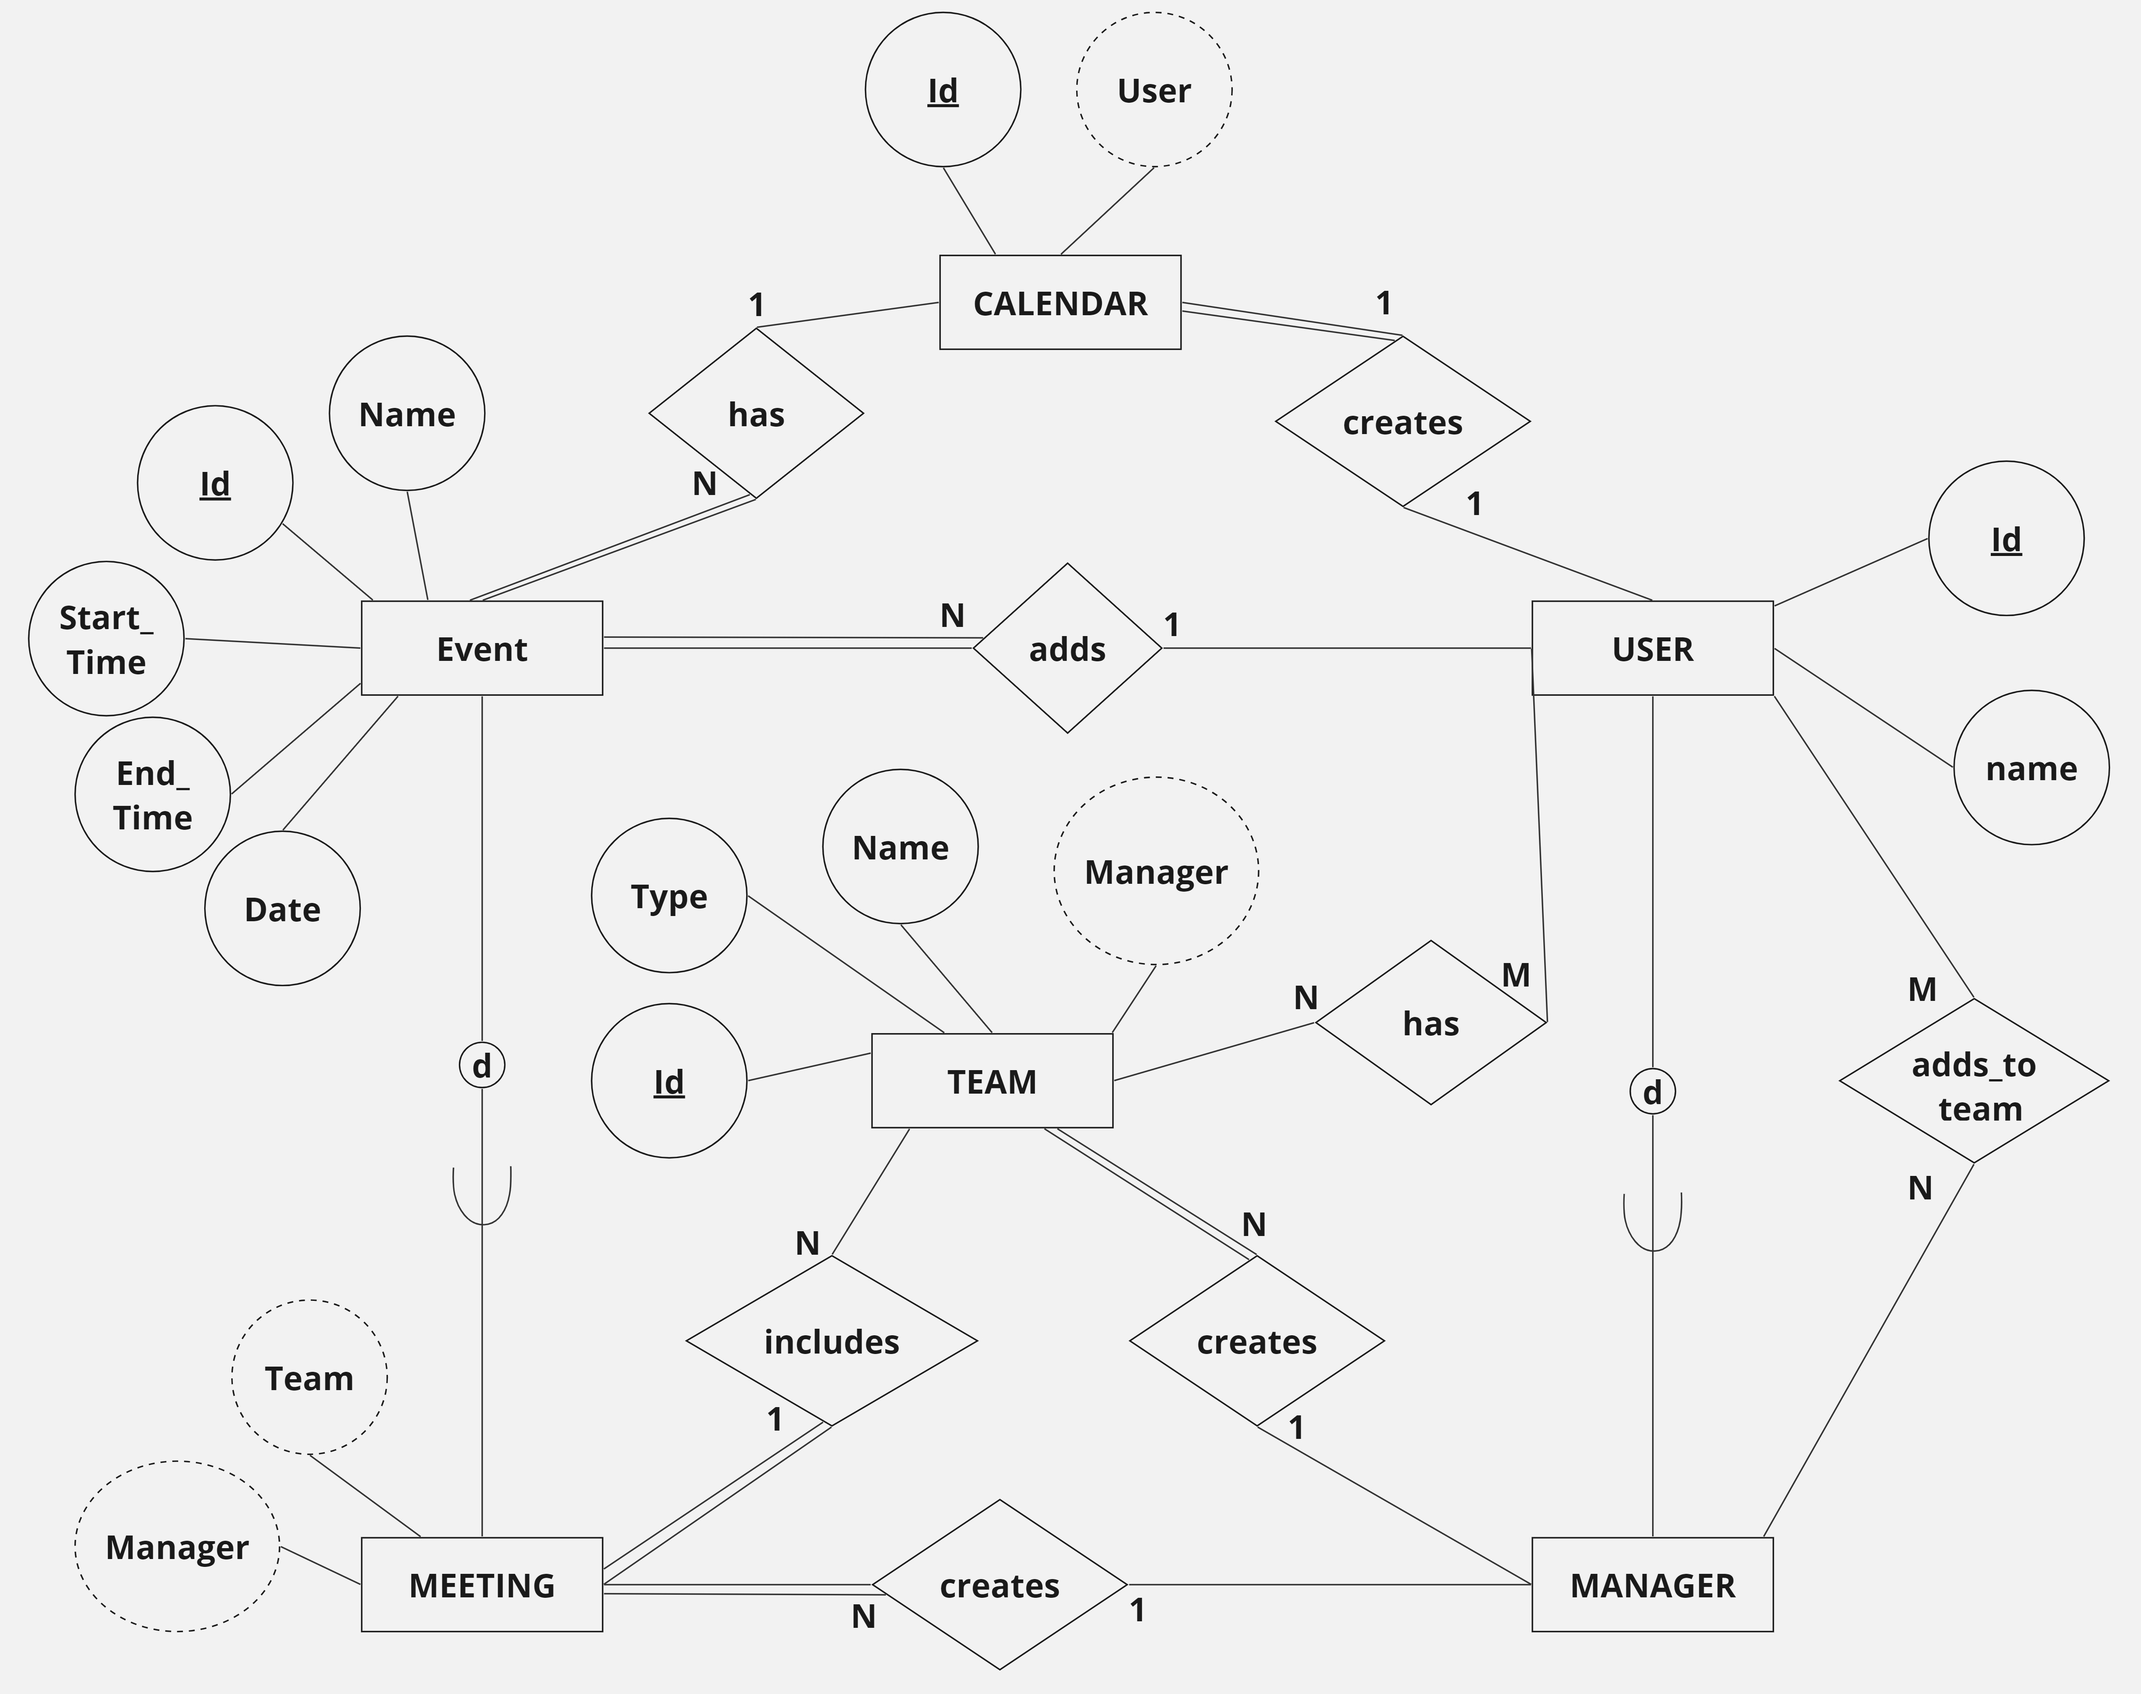
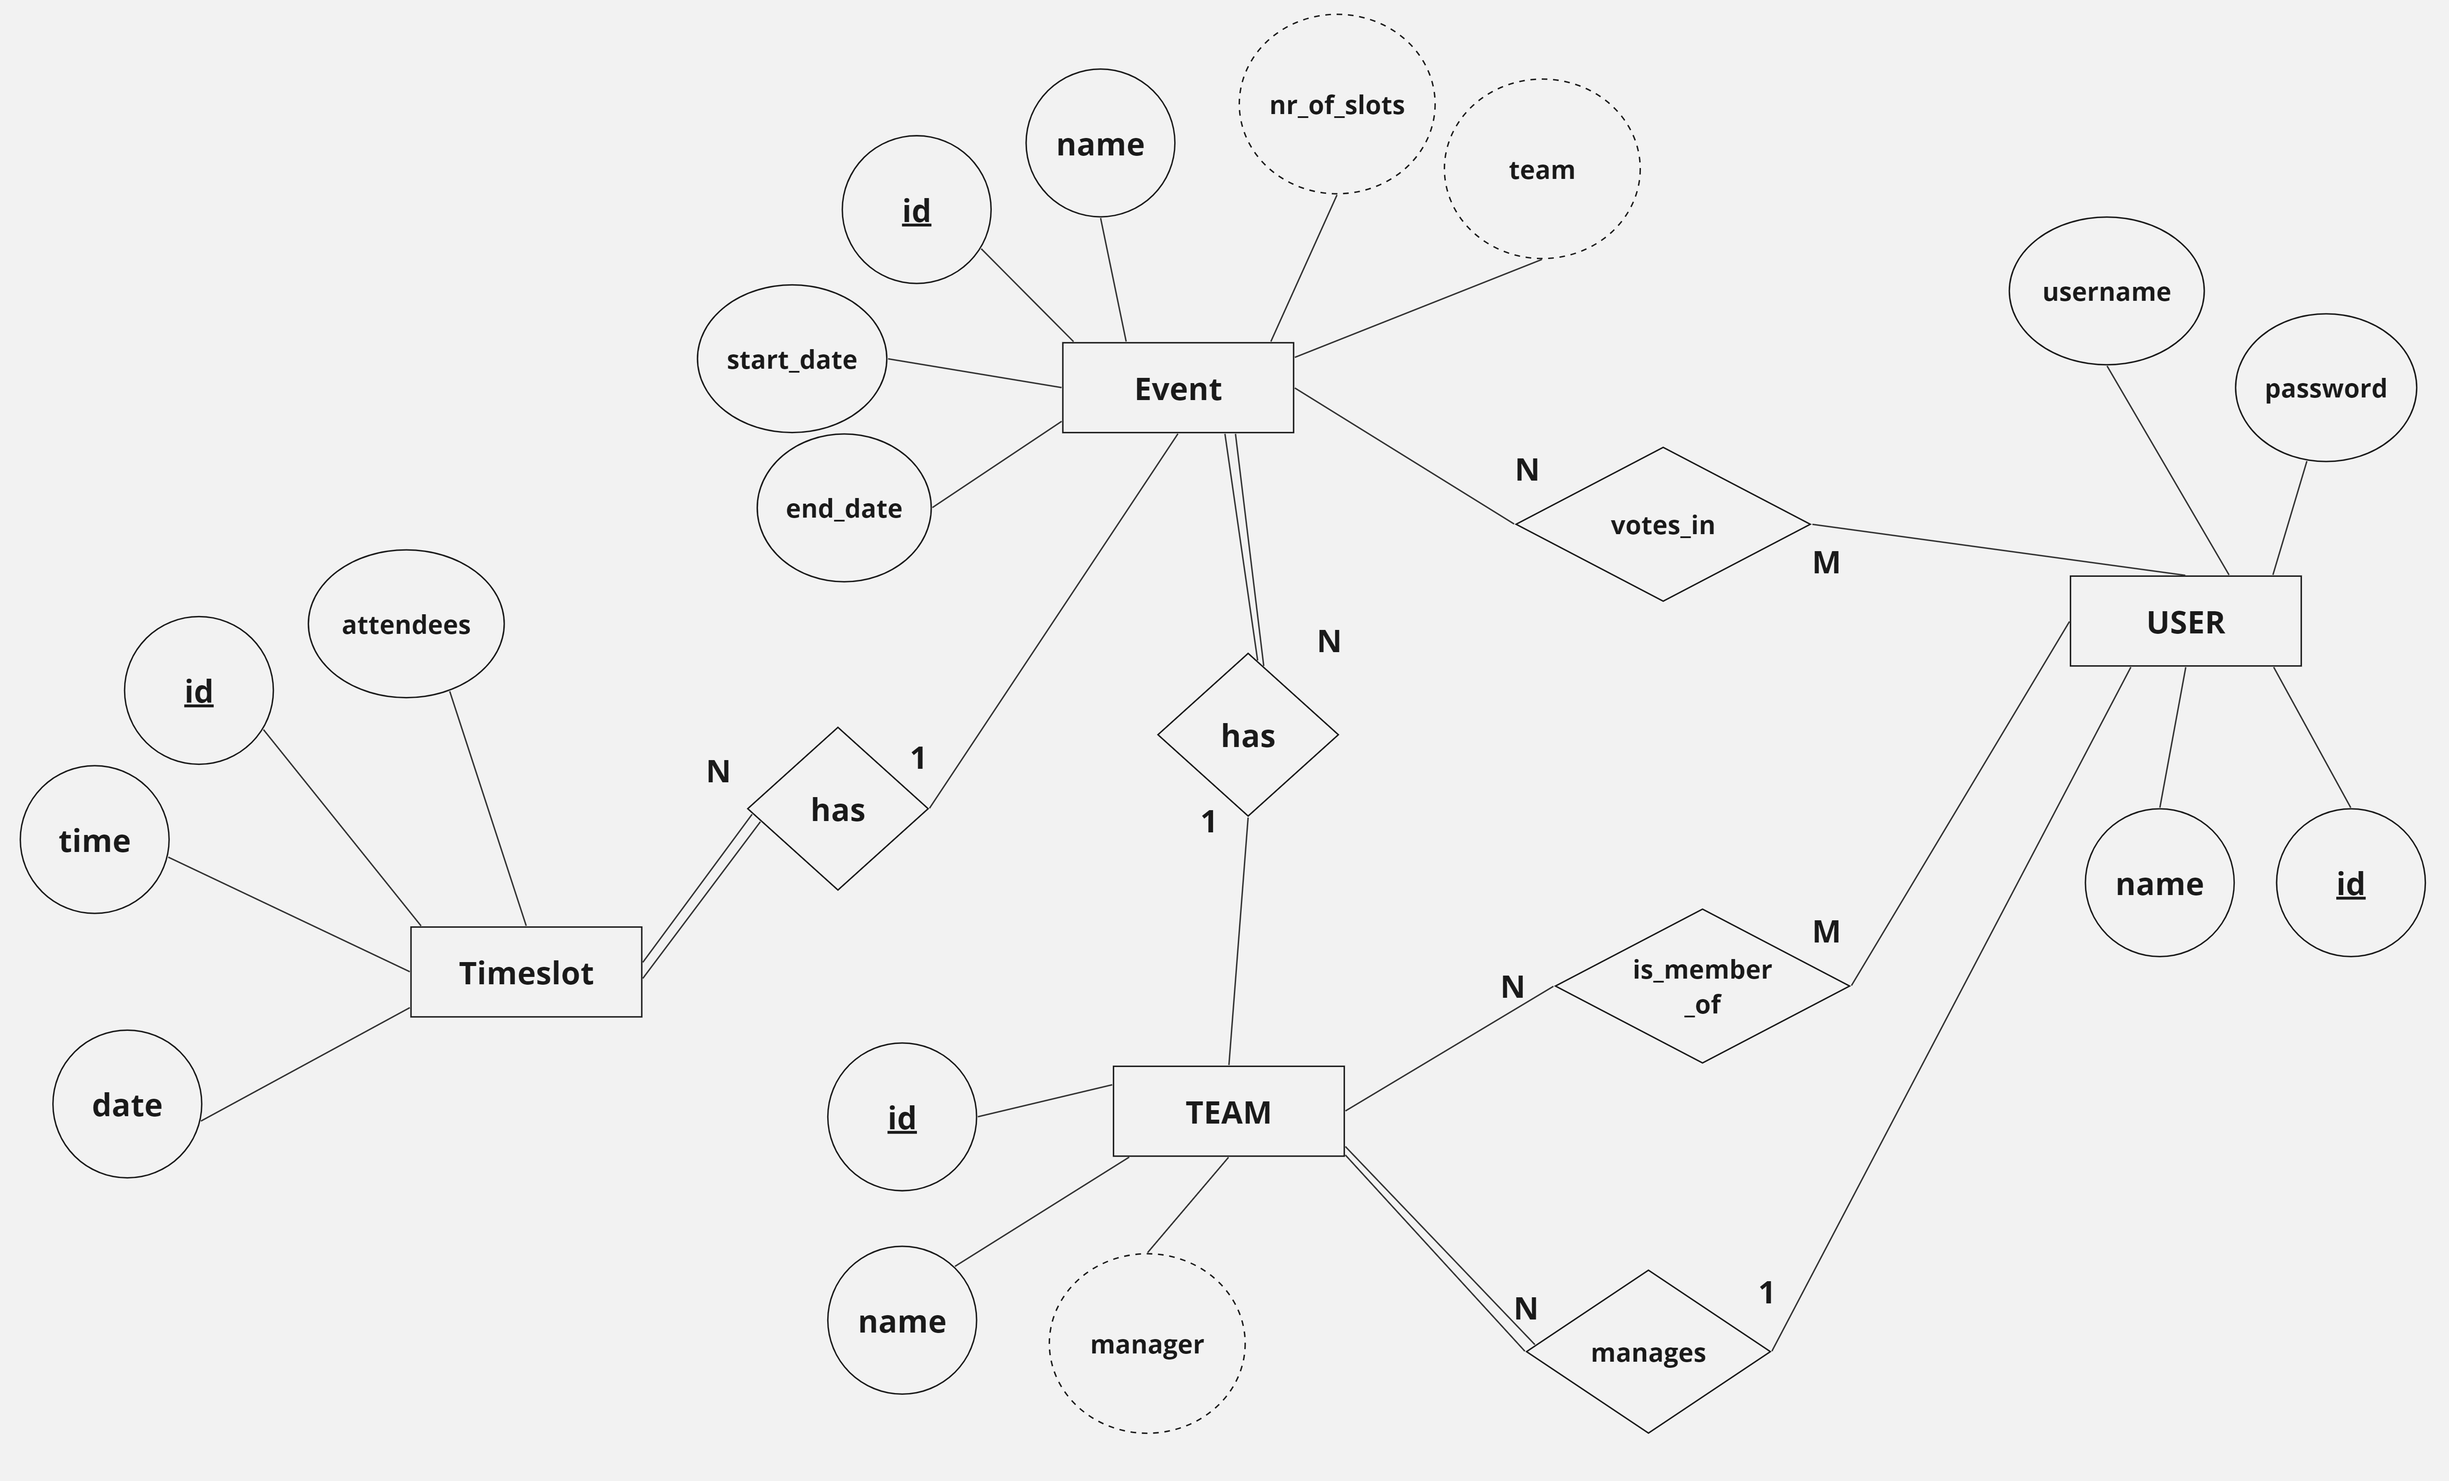
FIX README

diff --git a/client/src/components/HomeButton.vue b/client/src/components/HomeButton.vue
@@ -1,6 +1,6 @@
 <template>
   <b-button
-    style="top: 2%; right: 2%; position: fixed; background-color: #0f817a"
+    style="bottom: 2%; right: 2%; position: fixed; background-color: #0f817a"
     id="home-button"
     variant="primary"
     @click="goHome()"

diff --git a/README.md b/README.md
@@ -63,20 +63,21 @@ Open the `server` and `client` in separate VSCode workspaces or open the combine
 
 ### Purpose
 
-This web application will allow users to share their schedules/calendars together and create joint meetings at the most opportune time for all members. The system evaluates the joint availability of the team members, which they change individually by creating personal events, in order to create meetings at the most optimal time, at the manager's prompt. This will help make organizing and planning easier and more convenient for the users.
-The goal is to give team members a clear overview of everyone’s availability and help in making sure that no one will miss out on important meetings because of unclear time management and communication.
+This web application will allow users to get the most optimal time for a meeting by incorporating teams, events, and polls. The system evaluates the joint availability of the team members, by allowing them to select their free time slots each. The system then calculates the five best time slots for the meeting by the manager’s command. This will help make organizing and planning easier and more convenient for the users. The goal is to give the manager a clear overview of everyone’s availability and help in making sure that no one will miss out on important meetings because of unclear time management and communication.
 
 
 ### Pages
 
 * Login/register page is for all users to enter their account.
-* Main page is where the user can view and edit their calendar, add events, and check notifications.
-* Main page for managers includes all the same but with the additional functionalities for managing (create, edit, delete) teams, meetings, and making users managers.
-* Event page which includes information about the event and edit functionality, is accessed by clicking on an event in the calendar.
-* Meeting page includes all the same but with the addition of information about the team and manager, allows users to RSVP on events and edit functionality is restricted to managers. 
-* Team page includes info about team members: emails, names, privileges. If the user is a manager, they have the functionality to add and remove users or edit the team info. For the manager, it also displays a calendar with all the availabilities of the team.
-* Notification page gives a more detailed look at the users notifications, accessed from notifications from users main page. 
-* Profile page gives users the ability to edit their profiles or delete their account.
+* Main page is where the user can view the teams they are managing and teams they are a member of. They also have the ability to add teams here. There is also a sidebar which gives users the ability to edit their profiles or log out from their account.
+* Team Details page includes info about team members: names. If the user is the manager of that team, they have the functionality to add users, edit the team info or delete the team. The manager also has the option of adding events for the team.
+* Event Details page which includes the calendar to choose the free time slots for that event and submit. If the user is the manager of that team, they have the functionality to get optimal time for the event or delete the event altogether.
+* Add Event page allows for the creation of events, only accessible for the manager of the given team.
+* Add Team page allows for the creation of teams which includes adding members to that team.
+* Edit Profile page which allows users to change their names and usernames.
+* Optimal Time page which shows the manager the best times available for a specific event and gives them the option to choose one.
+* Selected Slot page replaces the Event Details page once the manager has chosen a specific time for that event.
+
 
 
 ### Entity-Relationship (ER) Diagram
